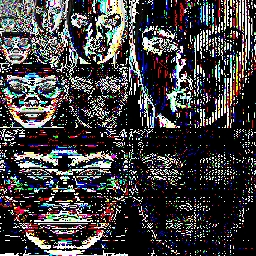
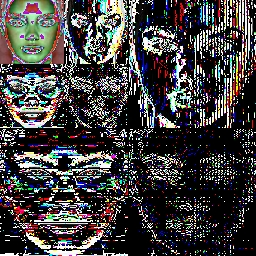
Haar test 3

Changed region(s): [[0.0, 0.0, 0.25, 0.25]]

diff --git a/MetricObject/ImageDocument.h b/MetricObject/ImageDocument.h
@@ -60,7 +60,7 @@ namespace jvr
 
 		CImg<unsigned char> haar()
 		{
-			return image->haar(false, 10);	
+			return image->haar(false, 2);	
 		}
 
 		void resize(int width, int height)
